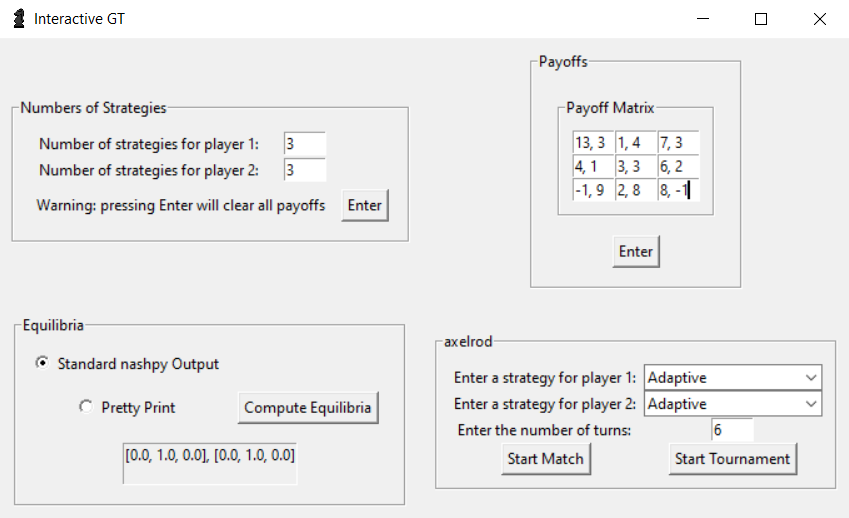
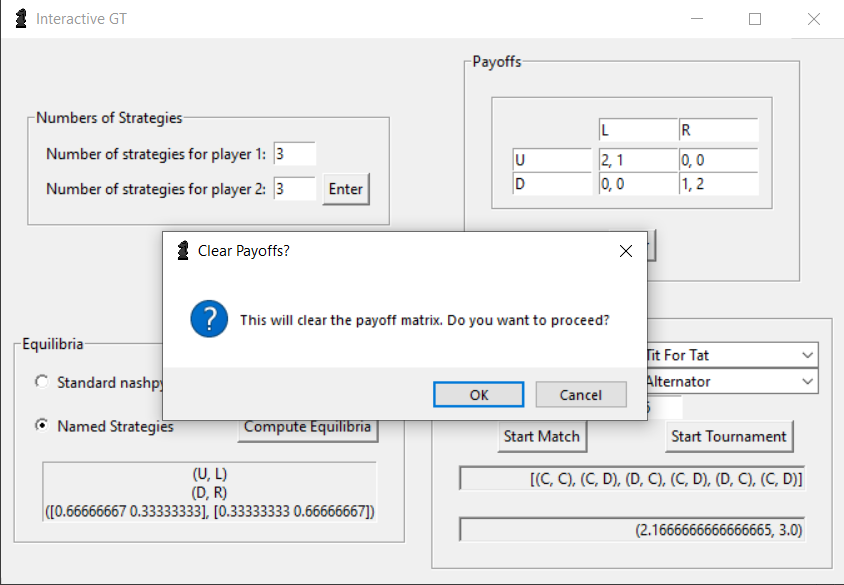
update README.md

diff --git a/gtGUI.py b/gtGUI.py
@@ -51,7 +51,7 @@ def computeEquilibria(output):
         equilibriaOutput = Label(equilibriaFrame, text=eqString, bd=1, relief=SUNKEN, anchor=E) 
         equilibriaOutput.grid(row=2, column=0, columnspan=2, padx=5, pady=5)
         root.geometry("750x425")
-    elif output == 1: # Named Strategies Output
+    elif output == 1: # Named Strategies
         eqs = G.support_enumeration()
         numEquilibria = len(list(eqs))
         if numEquilibria % 2 == 0:
@@ -342,7 +342,7 @@ def clicked(value):
     output.set(value)
 
 Radiobutton(equilibriaFrame, text="Standard nashpy Output", variable=output, value=0, command=lambda: clicked(output.get())).grid(row=0, column=0, sticky=W)
-Radiobutton(equilibriaFrame, text="Named Strategies Output", variable=output, value=1, command=lambda: clicked(output.get())).grid(row=1, column=0, sticky=W)
+Radiobutton(equilibriaFrame, text="Named Strategies", variable=output, value=1, command=lambda: clicked(output.get())).grid(row=1, column=0, sticky=W)
 
 equilibriaButton = Button(equilibriaFrame, text="Compute Equilibria", command=lambda: computeEquilibria(output.get()))
 

diff --git a/README.md b/README.md
@@ -3,7 +3,11 @@ An interactive game theory application for analyzing 2-player games using nashpy
 
 Equilibria for a Battle of the Sexes, and an axelrod match between a Tit for Tat player and an Alternator: 
 ![bos and match](images/image1.png)
-Equilibria for a three-by-three matrix with lots of strictly dominated strategies: 
+Prompt that ensures the user wants to resize the payoff matrix, which clears the values: 
 ![strictly dominated strategies](images/image2.png)
-Warning when computing the equilibria of a degenerate game:
+Equilibria for a three-by-three matrix with lots of strictly dominated strategies: 
 ![degenerate game warning](images/image3.png)
+Warning when computing the equilibria of a degenerate game:
+![degenerate game warning](images/image4.png)
+Equilibria of a degenerate game: 
+![degenerate game equilibria](images/image5.png)
